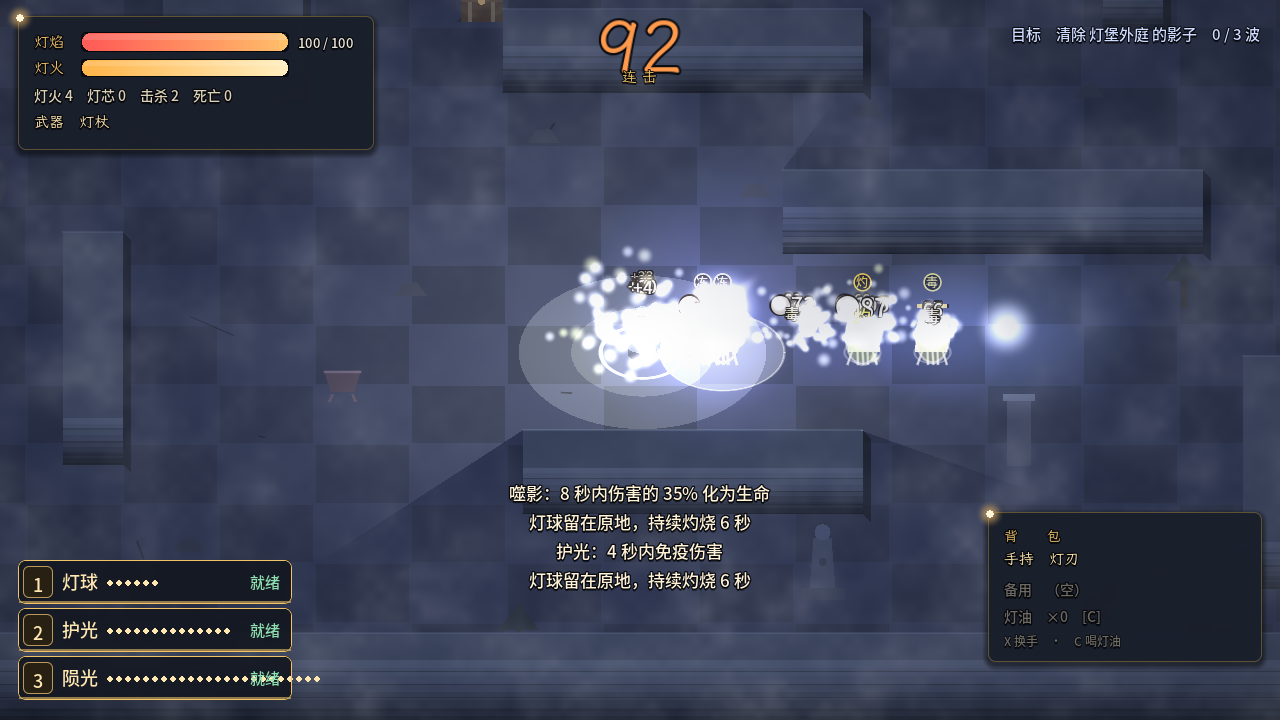
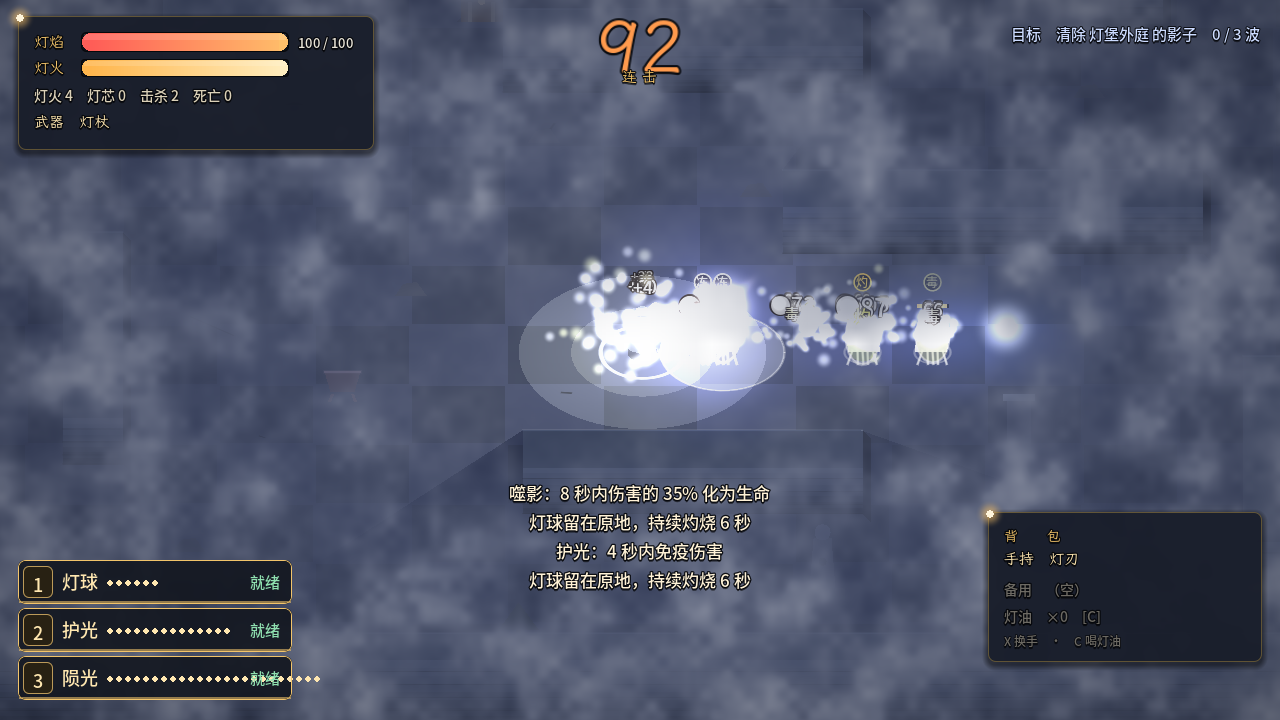
feat(godot): 迷雾拉到最浓（MIST_MAX 0.40 → 1.0）
用户要求「迷雾改成最浓」。着色器上限就是 1.0，所以取满格；噪声那步
（`a *= mix(0.50, 1.25, n)`）保留 —— 取 1.0 之后若没有噪声调制，整屏就是一块不透明的板，
有噪声才有 0.5~1.0 的厚薄差，看着才是"雾"不是"墙"。

代价量清楚了（同一块没有 HUD / 没有玩家光晕的地面，PIL 量）：
  关雾 42.5 / 局部对比度 3.90
  雾 0.40  62.2 / 2.78
  雾 1.0   91.2 / 2.21   ← 均值 +115%、对比度 −43%
即：灯照不到的地方地形基本看不见了，屏幕上只剩灯照的那一圈是清的。
这是"最浓"的定义使然（KIND_SCALE.player = 0.82 仍保留柔边，所以"雾退到哪儿"还看得见）。
想要"浓但还看得见地形"，0.55~0.65 是折中点，写在 README 二.14.3。

顺带修一个**被这次改动逼出来的**断言口径问题：
"夜色旋钮真的接在画面上"（上一轮刚补的那条）立刻变红了 —— 雾不透明之后全屏均值由雾决定，
把地图压暗屏幕几乎不动（实测 0.2925 → 0.2839，只差 0.0086，卡在 0.02 阈值下）。
差一点又去调阈值，那正是要避免的修法。正解是**关雾再量**：量哪一层就把别层冻住
（关雾后 0.1580 → 0.0986，差 0.059，判据重新立住）。
雾开着时的 0.0086 不删，改成**只记进报告不断言**的样本 `night_delta_fog_on` ——
它说明的是真事：雾拉满之后夜色在观感上已被雾盖住，这是"最浓"的必然结果，不是缺陷。
这和上一轮"底色提亮 → 比值断言测的是底色"是同一类错误（判据被另一层主导），
所以写进项目记忆硬约定：**量哪一层，就把别层冻住。**

验证：
- 自检 358/358，errors 0（断言条数不变，改的是夜色那条的口径 + 2 个只记不断言的样本），
  连跑两遍 report.json 逐字节相同（新基线 md5 f1afc1cefbf99d830d9ec22896cbb6dd）
- 变异 25/25 全部符合预期；"夜色永远压到最暗一档"在新口径下照样红
- 顺手修掉报告汇总里一处口径不一致的打印（原来把"开雾的均值"和"关雾的最暗档"并排比）

diff --git a/godot-lightknight/README.md b/godot-lightknight/README.md
@@ -811,12 +811,17 @@ cm.color = NIGHT_MIN.lerp(Color(1.0, 1.0, 1.0), t)
 
 | | 关雾 | 开雾 |
 | --- | --- | --- |
-| 第一关出生点 | 0.1580 | 0.2121 |
+| 第一关出生点（雾 0.40 时） | 0.1580 | 0.2121 |
+| 第一关出生点（**雾拉满 1.0 之后**） | 0.1580 | **0.2925** |
 | 三关各自 | 0.16 / 0.14 / 0.12（一关更比一关黑） | — |
 
 断言是**两头卡**的：`> 0.05`（不是纯黑）且 `< 0.45`（没亮成白天）。
 `shots/21-fog-off.png` 是关雾的样子：地砖的缝、墙的顶面与南立面、脚下的暖光池都看得清，
 但整体是冷的、暗的——"看得清地形"和"这是晚上"同时成立。
+
+⚠ 注意后来雾被拉满（见 14.3 末尾）之后，**"地图可见"这一半主要是雾在扛**：
+关雾时全屏均值只有 0.158，是雾把它抬到 0.293 的。所以这两件事要分开看 ——
+雾一关，画面立刻回到"偏暗"。两头的界限仍然卡得住（0.293 < 0.45），但离上限只剩 0.16。
 
 #### 14.3 迷雾：自己算的，不是 Light2D
 
@@ -864,13 +869,34 @@ cm.color = NIGHT_MIN.lerp(Color(1.0, 1.0, 1.0), t)
 「雾回填」是那条尾巴：`target` 是"这一刻该多亮"（瞬间归零），`reveal` 是"画面上现在多亮"
 （按每秒 1.6 慢慢掉）。于是灯扫过去会留下一道**正在合拢**的痕迹，而不是"啪"地糊回来。
 
+**雾的浓淡（`MIST_MAX`）最后定在满格 1.0 —— 是用户要求的"最浓"。**
+这个数一路是 0.58 → 0.40 → 1.0，每次都是被**画面对不对**推着走的：
+
+```
+MIST_MAX = 0.40（中间稿）  看得到地形，但"灯下散开"不够戏剧化
+MIST_MAX = 1.0 （现在）    雾是真的雾了，代价见下
+```
+
+代价量得很清楚（同一块没有 HUD、没有玩家光晕的地面，PIL 量的）：
+
+| | 均值 | 局部对比度 |
+| --- | --- | --- |
+| 关雾 | 42.5 | 3.90 |
+| 雾 0.40 | 62.2（+46%） | 2.78（−29%） |
+| **雾 1.0** | **91.2（+115%）** | **2.21（−43%）** |
+
+也就是说：**雾拉满之后，灯照不到的地方地形基本看不见了**（地砖缝、墙的轮廓都被雾吃掉），
+屏幕上只剩"灯照到的那一圈是清的"。这是"最浓"的定义使然，不是 bug ——
+`KIND_SCALE.player = 0.82` 仍然留着那圈柔边，所以"雾退到哪儿为止"还看得见。
+想要"浓但有地形"的话，`0.55 ~ 0.65` 是那个折中点。
+
 #### 14.4 这段的断言（28 条，每一条都能单独失败）
 
 `_section_fog_night()` 里 28 条，要点如下（★ 为关键几条）：
 
 迷雾层存在且默认开着 / 它挂在世界层里（盖得住世界）/ **HUD 在自己的 CanvasLayer 上、不受雾影响** /
 **脚下没有雾** / **整屏不是均匀的雾（既有照亮格也有满雾格）** / **没照到的地方雾让画面亮起来** /
-**灯下几乎看不出有雾** / **夜色两头卡** / **同一帧只拧 `ambient`、全屏必须明显变暗** /
+**灯下几乎看不出有雾** / **夜色两头卡** / **同一帧只拧 `ambient`、全屏必须明显变暗（关雾量）** /
 同距离的空地散了而墙后没散 / 距离相同（对照前提）/
 灯刚不照了画面还亮着 → 0.5 秒后合拢 / 攻击灯也散雾 / 三关雾色互异且取自关卡表 /
 清关时雾散尽且真的接到了着色器上 / 雾散尽还能重新聚起来。
@@ -917,7 +943,7 @@ cm.color = NIGHT_MIN.lerp(Color(1.0, 1.0, 1.0), t)
 4. **雾的浓淡是拿眼睛调的**。第一版 `MIST_MAX = 0.58`，测出来"雾让画面变亮了 0.053"
    一切正常 —— 但人眼看过去，没被照亮的地方被压成了**一整块灰板**，
    地砖的缝、墙的轮廓全糊掉，而用户要的是"地图**可见**"。
-   降到 **0.40**，并把**倍频噪声从两层加到三层**（原来噪声格又大又少，看着就是一块灰板）。
+   于是降到 **0.40**，并把**倍频噪声从两层加到三层**（原来噪声格又大又少，看着就是一块灰板）。
    **数字全绿 ≠ 观感对**：这类"整体观感"的东西必须把两版截图并排看。
    事后补了量化（`21-fog-off` vs `02-level1-start`，取同一块没有 HUD、没有玩家光晕的地面）：
    **均值 42.5 → 62.2（亮 46%），而局部对比度（与 8px 均值滤波之差的标准差）3.90 → 2.78（−29%）**。
@@ -925,17 +951,29 @@ cm.color = NIGHT_MIN.lerp(Color(1.0, 1.0, 1.0), t)
    净效果对"可见"是正的（提亮前那块地只有 42/255，绑定约束是亮度不是对比度），
    但这是**权衡**不是纯赚 —— 所以 `MIST_MAX` 这个数**要么拿眼睛定、要么拿这条指标定**，
    只看"全屏均值涨了"会得出"雾越多越好"的错误结论。
-5. **一条"没牙"的断言是靠变异测试才暴露的**（本轮唯一一次变异不符合预期）。
+   **最后用户要"最浓"，所以定在满格 1.0**：均值 **91.2（+115%）、局部对比度 2.21（−43%）**。
+   这条曲线第一次把"最浓"的代价变成了可读的数：**灯照不到的地方，地形基本看不见了**。
+   （0.55~0.65 是"浓但还看得见地形"的折中点，写在 14.3。）
+5. **一条"没牙"的断言是靠变异测试才暴露的**，而且它和"雾拉满"是同一个坑的两半。
    "夜色"最初只有两条断言：`mean > 0.05` / `mean < 0.45`。变异 `夜色永远压到最暗一档`
    （把 `t` 写死成 0）**跑出来 0 条变红**。查下来不是补丁打歪了，是**命题本身错了**：
    地图提亮之后，即便 `CanvasModulate` 一直取 `NIGHT_MIN`，画面也只是**暗掉一半**，
    全屏均值照样落在 0.05~0.45 里 —— "不是纯黑"这个命题对"夜色卡在最暗"这个失败方式
    **天然不敏感**（它防的是**提亮之前**那个底色 0.008 的年代）。
    → 补一条**只拧一个变量**的对照：同一帧、同一世界，把 `world.ambient` 拧到最暗，
-   全屏均值必须明显下降（实测 0.2121 → 0.1732，差 0.039 > 0.02）。
-   这条才是"夜色旋钮真的接在画面上"的对应判据，也是这轮唯一新加的断言（357 → 358）。
+   全屏均值必须明显下降。这条才是"夜色旋钮真的接在画面上"的对应判据（357 → 358）。
    **教训**：断言没红时，先分清是"补丁没打在生效的那一层"还是"断言根本问错了问题"；
    后者要靠**让旋钮转一下**（单变量前后对照）来修，不是把阈值调松。
+
+   ⚠ **然后"雾拉满"立刻又打了这条断言一次脸**（同一个失败方式的第二次出现）：
+   `MIST_MAX = 1.0` 之后没被照到的地方是不透明的，**全屏均值由雾决定** ——
+   把地图压暗，屏幕几乎不动（实测 0.2925 → 0.2839，只差 **0.0086**，卡在 0.02 的阈值下）。
+   差一点又要把阈值从 0.02 调到 0.005（这正是要避免的那种修法）。
+   → 正确的修法是**关雾再量**：量哪一层，就把别层冻住（同 14.3 里 `set_fog_enabled(false)`
+   那条规矩）。关雾后 0.1580 → **0.0986**，差 0.059，判据重新立住。
+   雾开着时的那个 0.0086 不删、改成**只记进报告不断言**的样本
+   （`night_delta_fog_on`）—— 因为它说明了一件真实的事：
+   **雾拉满之后，夜色在观感上已经被雾盖住了**，这是"最浓"的必然结果，不是缺陷。
 
 五、还没做的部分
 --------------------------------------------------------------------

diff --git a/.workbuddy/memory/DETAIL-godot.md b/.workbuddy/memory/DETAIL-godot.md
@@ -15,7 +15,7 @@
 
 ## 一键脚本 / 当前基线（tools/）
 - `tools/godot-lightknight.sh` — 完整自检 **358/358**，rc=0，连跑两遍 `report.json`
-  **逐字节相同**，基线 md5 `b65e9c4d0d6440892d51ec6f208bae0f`。**全程约 30 秒**；
+  **逐字节相同**，基线 md5 `f1afc1cefbf99d830d9ec22896cbb6dd`。**全程约 30 秒**；
   跑两分钟以上通常是卡 400s 超时（脚本没起来），先 grep `SCRIPT ERROR|Parse Error`。
 - `tools/godot-mutate.py` — 变异测试 **25 个**。备份 `~/.cache/dq-mutate/src.bak`。
   ⚠ **刻意不用 `rmtree`**（沙箱批量删除保护会拦 → 还原失败、坏源码留盘），用
@@ -125,12 +125,13 @@
   三层倍频噪声雾絮。视线用**射线扇**（192 条/盏 × `Proj.ray_rect_dist` slab 法）。
   `World.step()` 里调（固定步长，雾絮时间取自 `world.time` → 漂动也可复现），每 0.05s 重建；
   有开关 `set_fog_enabled`；`KIND_SCALE` 给每类灯开雾半径系数（玩家 0.82）；
-  `MIN_OPENER_R` / `OPENER_MAX=10`；**`MIST_MAX=0.40`**（0.58 会把没照到的地方压成一块灰板，
-  是拿眼睛调的）。清关 `disperse()/reset_fade()/tick_fade()` 走 `World.tick_fx`。
+  `MIN_OPENER_R` / `OPENER_MAX=10`；**`MIST_MAX = 1.0`**（用户要"最浓"；中间稿是 0.40）。
+  清关 `disperse()/reset_fade()/tick_fade()` 走 `World.tick_fx`。
   ⚠ **雾是"提亮但压平"**（PIL 量的，`21-fog-off` vs `02-level1-start`，同一块没有 HUD /
-  没有玩家光晕的地面）：均值 **42.5 → 62.2（+46%）**，局部对比度（与 8px 均值滤波之差的
-  标准差）**3.90 → 2.78（−29%）** —— 地更亮、但地砖缝更糊。净效果对"可见"仍为正
-  （提亮前那块只有 42/255，绑定约束是亮度），但 `MIST_MAX` 是**权衡**，别只看"全屏均值涨了"。
+  没有玩家光晕的地面）：关雾 均值 42.5 / 局部对比度 3.90；**雾 0.40 → 62.2 / 2.78**；
+  **雾 1.0 → 91.2 / 2.21（均值 +115%、对比度 −43%）**。
+  → **拉满之后灯照不到的地方地形基本看不见**，屏幕上只剩灯照的那一圈是清的；
+  `KIND_SCALE.player = 0.82` 保留柔边所以"雾退到哪儿"仍可见。0.55~0.65 是折中点。
 - ⚠ **迷雾的坐标系 ≠ 灯光层**（真 bug）：`LightRig`/`Bloom` 的 `position` 是
   `cam_offset(...)`（它们的局部空间是"世界坐标投影过来的"），迷雾照抄了这句，
   但它是**屏幕空间** → 矩形被搬出屏幕，**只有 ~53% 屏幕被雾盖住**且是照亮场的错位切片。
@@ -141,14 +142,19 @@
   `_diff_ratio_norm`：先各自减掉自己那块的平均色再比；三图 88/93/98%，
   "同关重建两次"两种度量都 **0.00%**。这类指标要**能自证**（曾因漏跳过越界占位符
   吐出 101.6% 这种不可能的值）。
-- ⚠ **一条"没牙"的断言是靠变异测试才暴露的**（本轮唯一一次变异不符合预期，25 个里）。
+- ⚠ **一条"没牙"的断言是靠变异测试才暴露的，而且这个坑在"雾拉满"时又出现了第二次**。
   "夜色"原来只有 `mean > 0.05 / < 0.45`；变异 `夜色永远压到最暗一档`（把 `t` 写死 0）
   **0 条变红** —— 不是补丁打歪了，是**命题问错了问题**：提亮之后最暗一档也只是暗掉一半，
   照样落在区间里（那两条防的是提亮前底色 0.008 的年代）。
-  → 补一条**只拧一个变量**的对照：同一帧、同一世界，把 `world.ambient` 拧到 0.98
-  （`d=0.02 → t≈0`，最暗），全屏均值必须明显下降（实测 0.2121 → 0.1732，差 0.039 > 0.02）。
+  → 补一条**只拧一个变量**的对照：同一帧、同一世界拧 `world.ambient` 到 0.98（`d=0.02 → t≈0`）。
+  **第二次**：`MIST_MAX = 1.0` 之后没照到的地方不透明，**全屏均值由雾决定**，
+  把地图压暗屏幕几乎不动（0.2925 → 0.2839，只差 **0.0086**，卡在 0.02 阈值下）。
+  → 差一点又去调阈值；正确的修法是**关雾再量**（`set_fog_enabled(false)`），
+  关雾后 **0.1580 → 0.0986**（差 0.059）。雾开着那个 0.0086 改成只记报告不断言的样本
+  `night_delta_fog_on`（它说明"雾拉满后夜色已被雾盖住"，是"最浓"的必然结果）。
   **教训**：断言没红先分清"补丁没打在生效层"还是"断言问错了问题"；后者要**让旋钮转一下**
-  （单变量前后对照），不是把阈值调松。`_section_fog_night` 现在 28 条。
+  （单变量前后对照），**不是把阈值调松**。后半条推广成：**量哪一层，就把别层冻住。**
+  `_section_fog_night` 现在 28 条。
 - ⚠ **三关 `ambient` 是 0.90 / 0.955 / 0.975**（`d = 1-ambient` 才进 `NIGHT_MIN/SPAN/BASE`
   的公式）—— 所以 `ambient` 越大越黑，拧到 ~0.98 才到最暗档；直接拿 `ambient` 当"亮度"
   理解会读反。

diff --git a/.workbuddy/memory/MEMORY.md b/.workbuddy/memory/MEMORY.md
@@ -22,11 +22,12 @@
 6. **绝对断言要与相对断言配对**：整片「比基准多多少」的断言，在基准被改坏时全都不响。
 7. **变异"没红"要先分清两种情况**：补丁没打在生效的那一层，还是**断言问错了问题**。
    后者（断言对该失败方式天然不敏感）要**让旋钮转一下** —— 同一帧只改一个变量做前后对照，
-   **不是把阈值调松**。
+   **不是把阈值调松**。推广：**量哪一层，就把别层冻住**（雾拉满后量夜色必须先关雾，
+   否则量到的是雾 —— 实测夜色只剩 0.0086 的差别）。
 
 ## 当前基线
 - `tools/godot-lightknight.sh` — 自检 **358/358**，约 30 秒，连跑两遍 `report.json`
-  **逐字节相同**（md5 `b65e9c4d0d6440892d51ec6f208bae0f`）。超过两分钟没好通常是脚本
+  **逐字节相同**（md5 `f1afc1cefbf99d830d9ec22896cbb6dd`）。超过两分钟没好通常是脚本
   没起来，先 grep `SCRIPT ERROR|Parse Error`。
   ⚠ **rc=1 不等于断言红** —— 必须单独看 `report.json.errors`。
   ⚠ **别在测试跑的时候改脚本/源码**（它会反复调用自检，中途改会污染整轮结果）。
